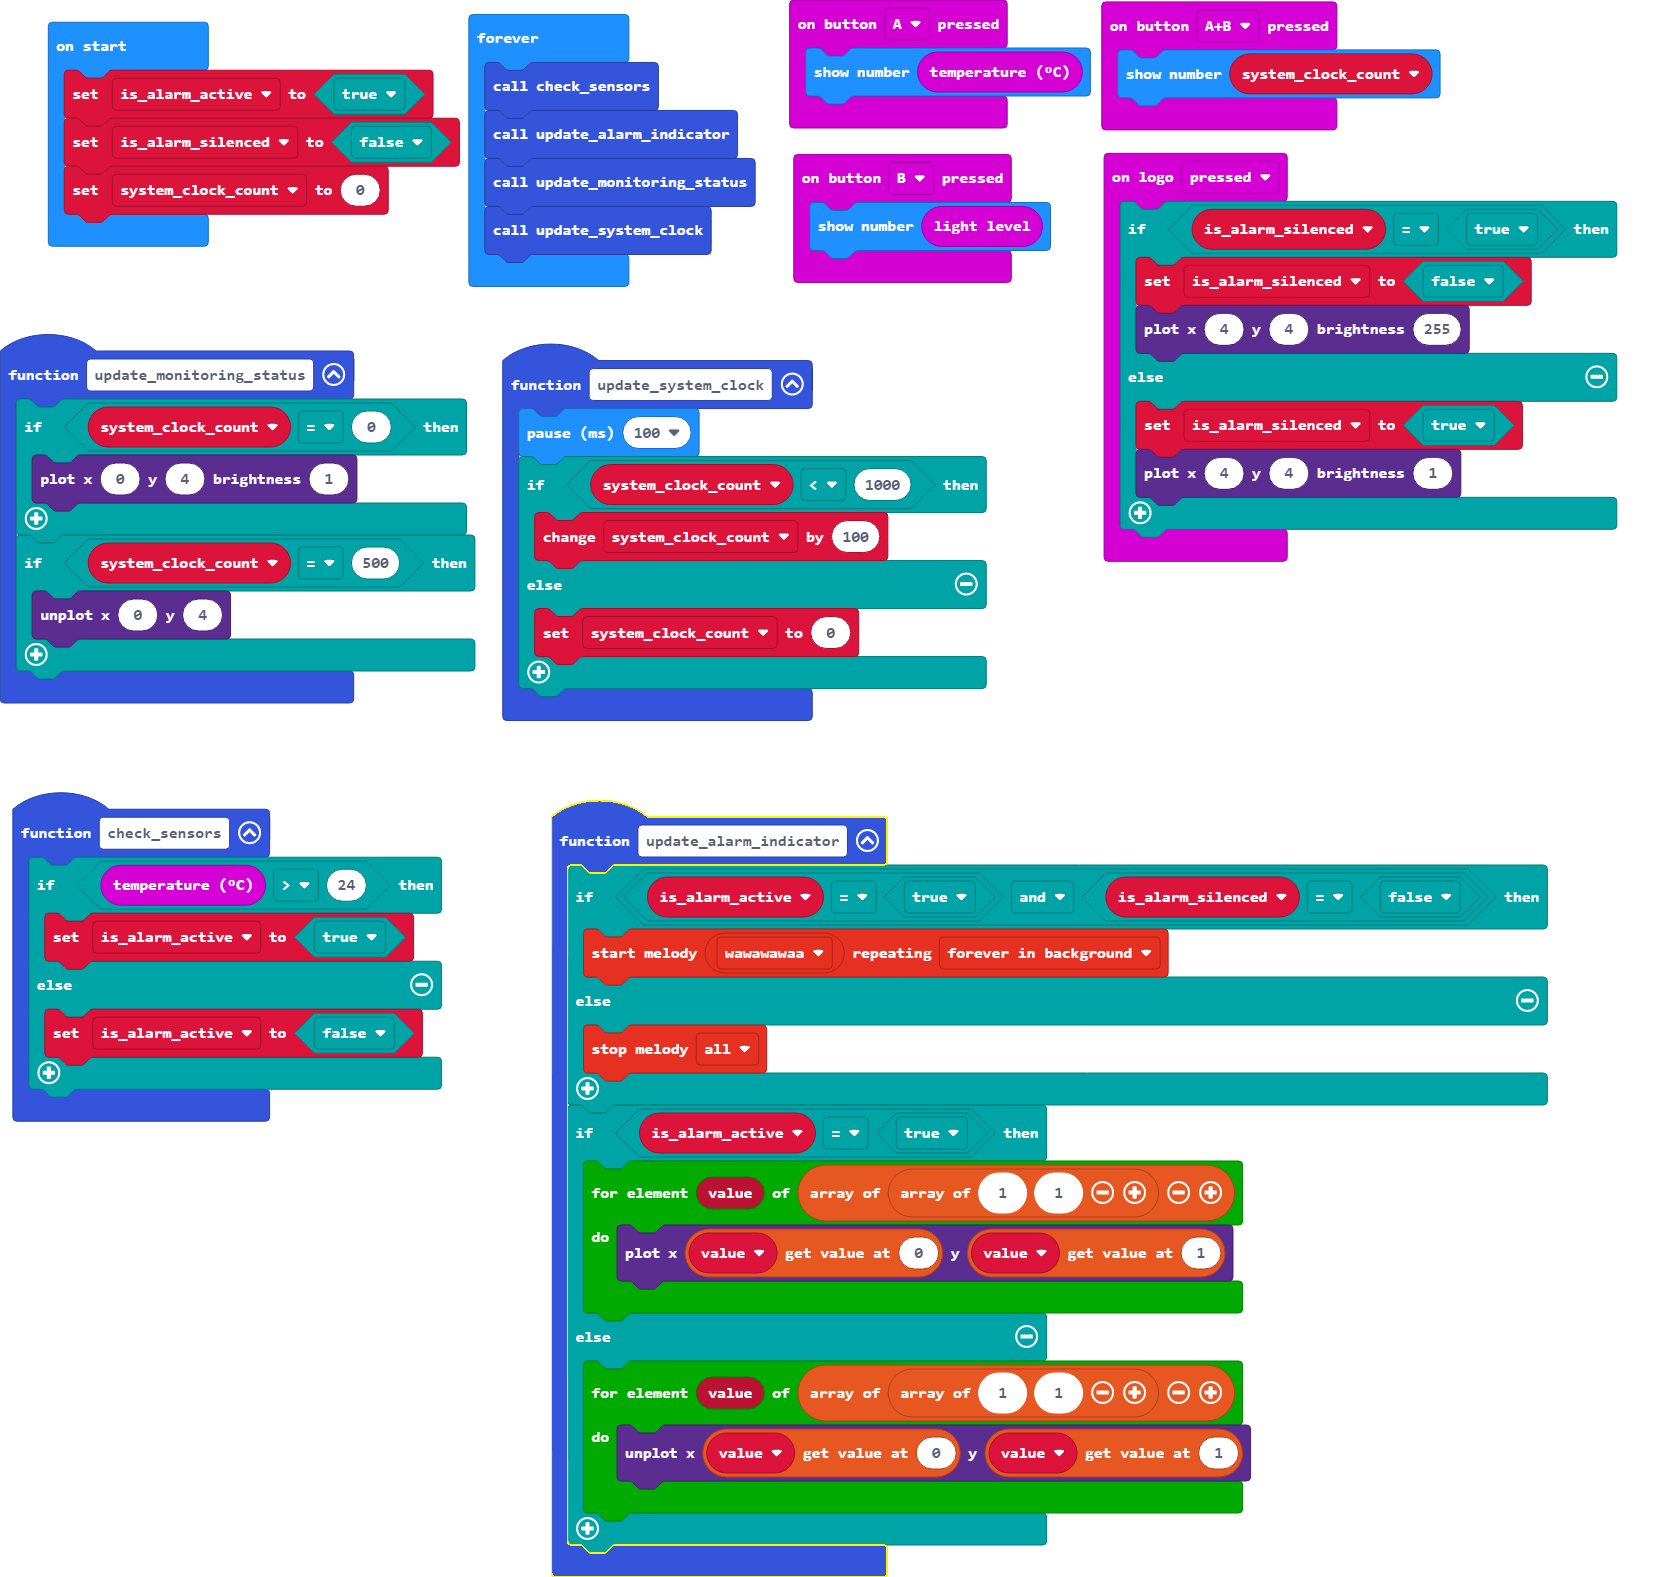
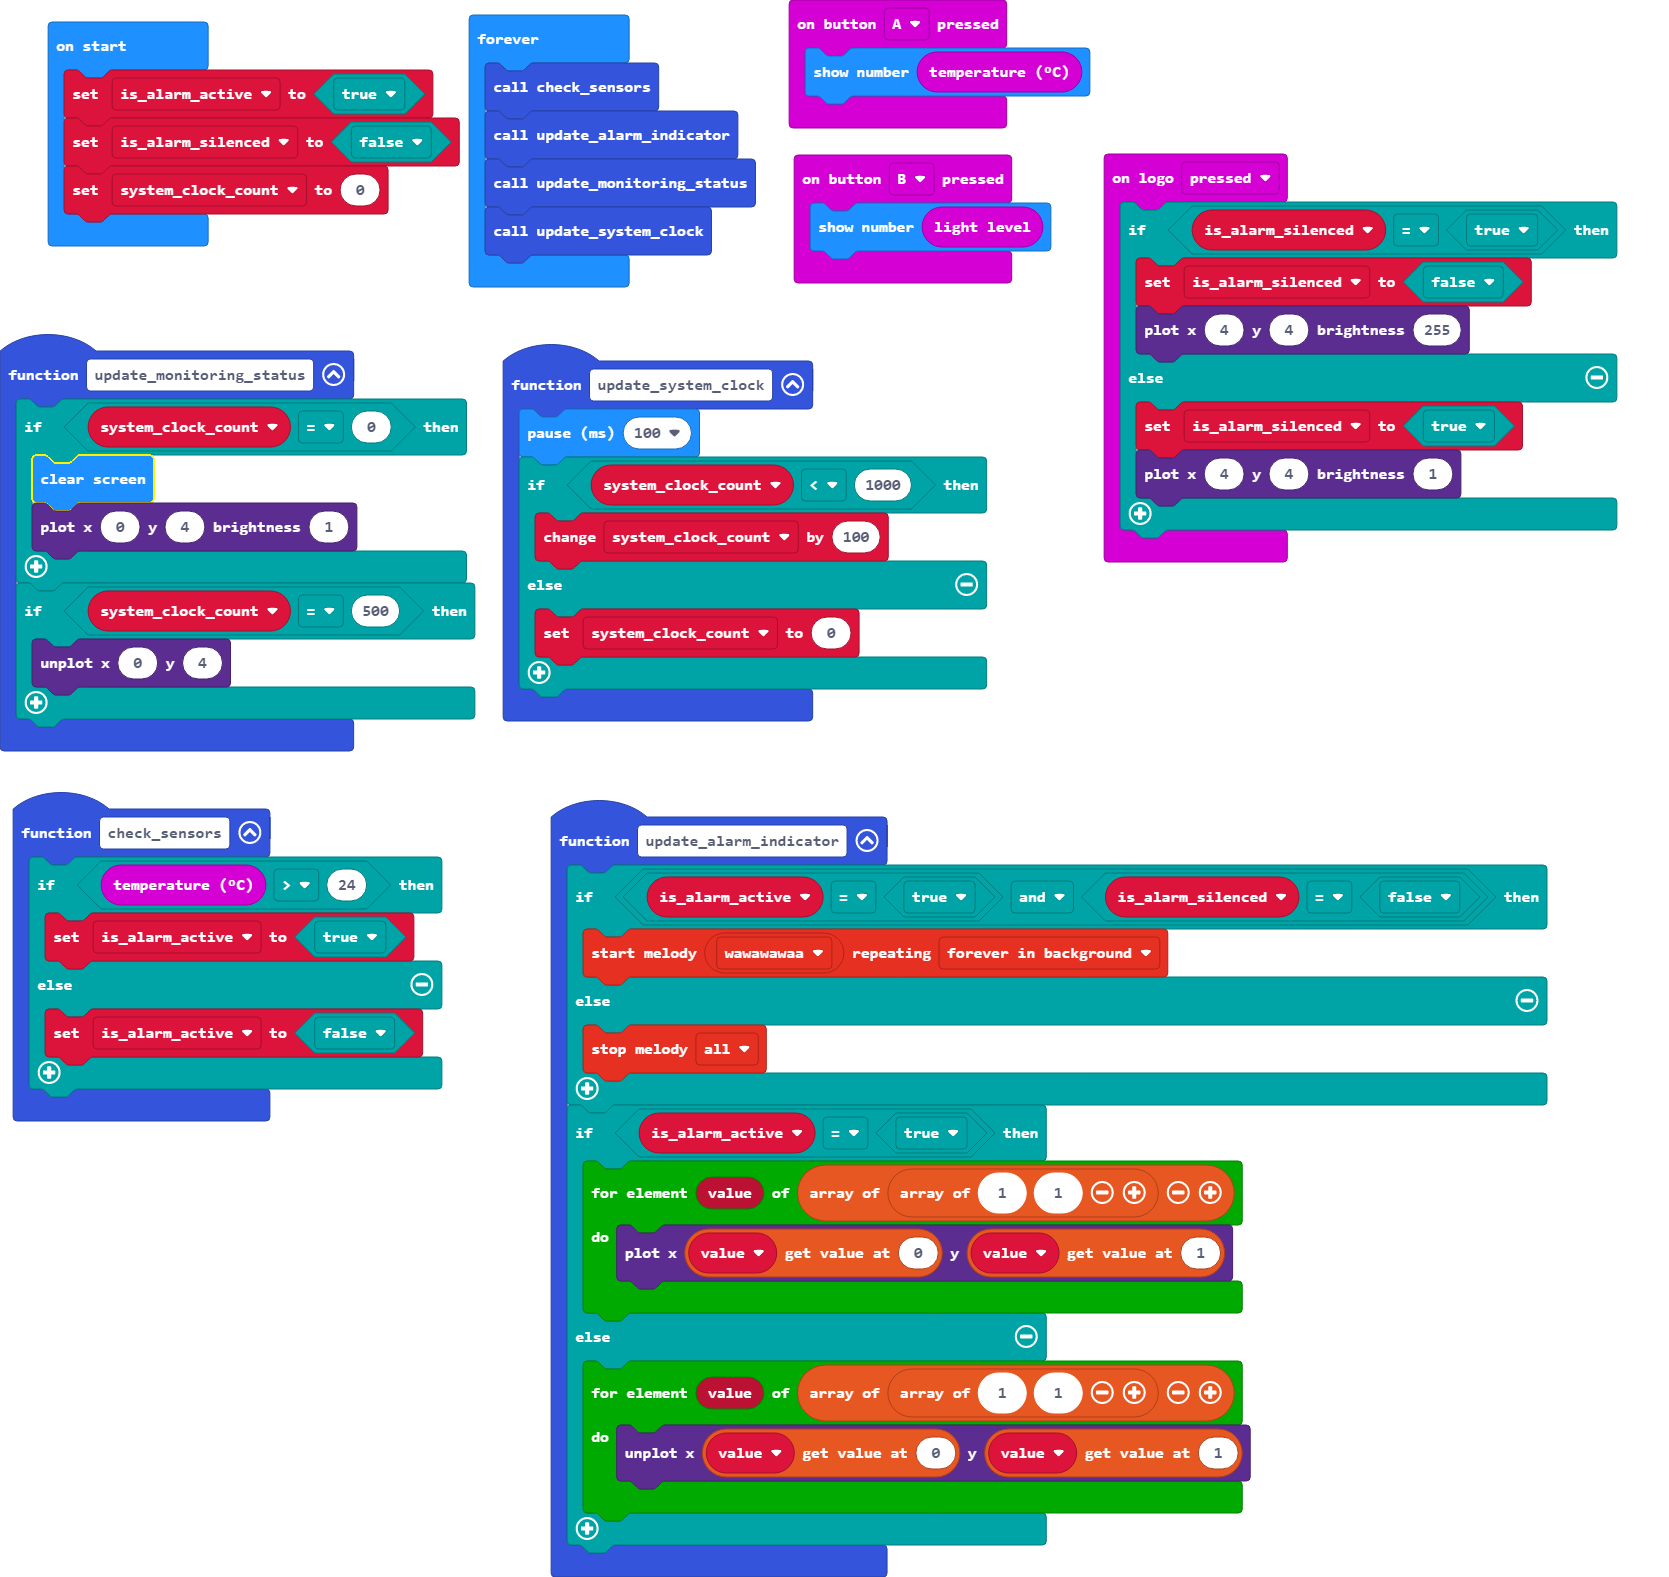
Update main.blocks, main.ts

diff --git a/main.ts b/main.ts
@@ -11,6 +11,7 @@ input.onButtonPressed(Button.A, function () {
 })
 function update_monitoring_status () {
     if (system_clock_count == 0) {
+        basic.clearScreen()
         led.plotBrightness(0, 4, 1)
     }
     if (system_clock_count == 500) {
@@ -40,9 +41,6 @@ function check_sensors () {
         is_alarm_active = false
     }
 }
-input.onButtonPressed(Button.AB, function () {
-    basic.showNumber(system_clock_count)
-})
 input.onButtonPressed(Button.B, function () {
     basic.showNumber(input.lightLevel())
 })
